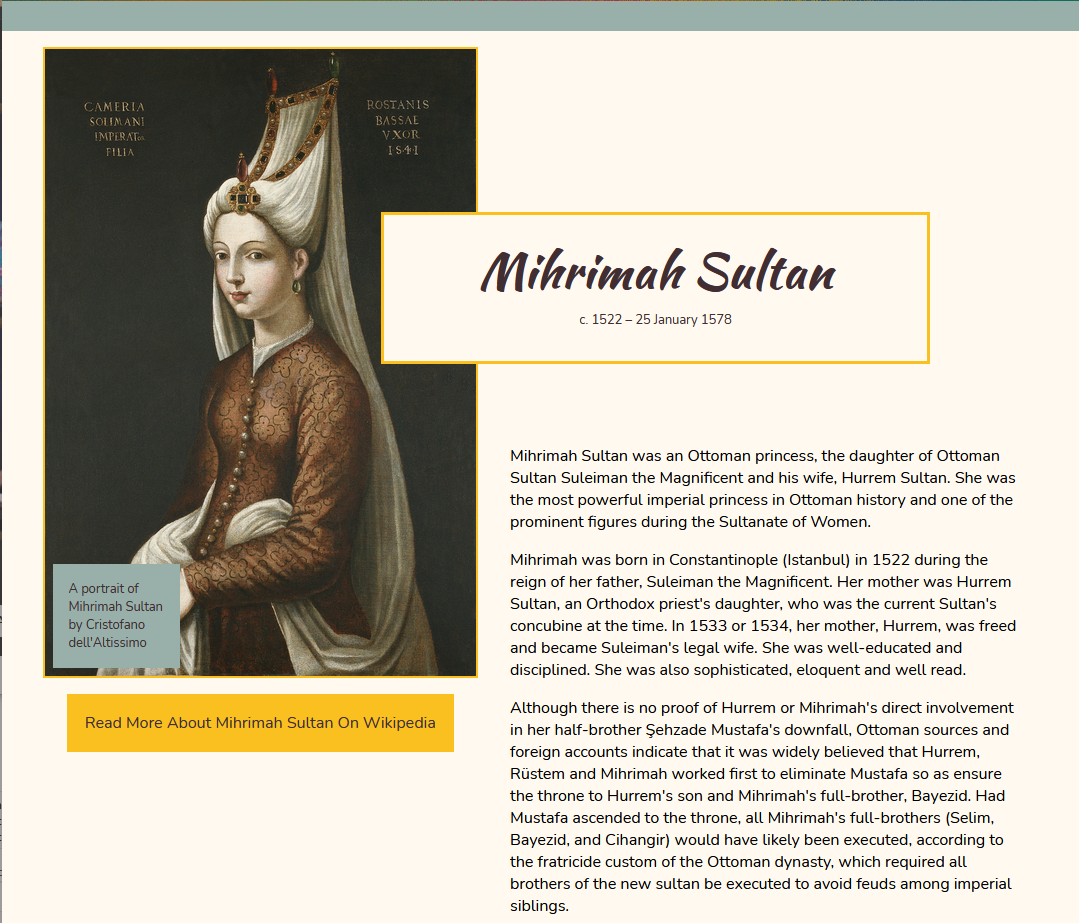
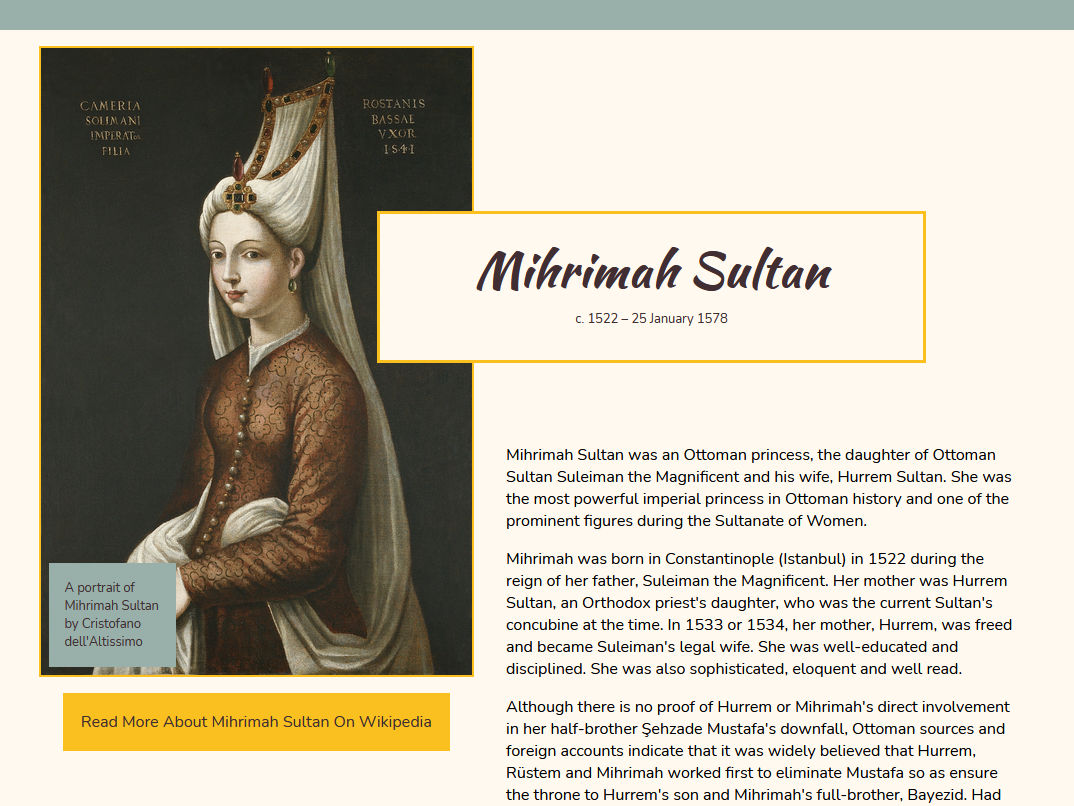
styles and content for portfolio

diff --git a/index.html b/index.html
@@ -9,6 +9,11 @@
 
     <link rel="stylesheet" href="styles.css" type="text/css">
     <link rel="stylesheet" media="screen and (min-width:700px)" href="large-styles.css">
+
+    <link rel="preconnect" href="https://fonts.gstatic.com">
+    <link href="https://fonts.googleapis.com/css2?family=Lato:ital,wght@0,300;0,400;0,700;0,900;1,300;1,400;1,700;1,900&display=swap" rel="stylesheet">
+
+    <link rel="stylesheet" href="https://cdnjs.cloudflare.com/ajax/libs/font-awesome/4.7.0/css/font-awesome.min.css">
     <!--<script defer src="https://cdn.freecodecamp.org/testable-projects-fcc/v1/bundle.js"></script>-->
 </head>
 
@@ -22,8 +27,9 @@
         <nav class="collapsible-menu">
             <ul>
                 <li><a href="#projects">Projects</a></li>
-                <li><a href="https://github.com/keircatenation" id="profile-link" target="_blank">GitHub</a></li>
+                <li><a href="#about">About</a></li>
                 <li><a href="https://keircatenation.github.io/MCC-Web-Development-2021/resume-project/resume.html" target="_blank">Resume</a></li>
+                <li><a href="https://github.com/keircatenation" id="profile-link" target="_blank">GitHub</a></li>
             </ul>
         </nav>
     </header>
@@ -38,44 +44,74 @@
                 <p>I am a designer, front-end web developer, and graphic artist with over 7 years’ experience in print, web, and mobile app design. I love creating open communication through well-thought-out design, illustration, and code.</p>
             </div>
         </section>
+
         <section id="projects">
             <h2>Projects</h2>
             <article class="project-tile">
-                <img src="assets/tribute-page.png" alt="DESCRIBE IT">
+                <img src="assets/tribute-page.png" alt="screenshot of the tribute page">
                 <div class="project-text">
                     <h3>Tribute Page</h3>
                     <a href="https://keircatenation.github.io/MCC-Web-Development-2021/tribute-page/tribute-page.html" target="_blank">View Project</a>
-                    <p>A tribute page created for the FreeCodeCamp responsive web design certification.</p>
+                    <p>A responsive tribute page created with CSS Grid for the FreeCodeCamp responsive web design certification.</p>
                 </div>
             </article>
             <article class="project-tile">
-                <img src="assets/tribute-page.png" alt="DESCRIBE IT">
+                <img src="assets/pattern-library.png" alt="screenshot of the pattern library">
                 <div class="project-text">
-                    <h3>Tribute Page</h3>
-                    <a href="https://keircatenation.github.io/MCC-Web-Development-2021/tribute-page/tribute-page.html" target="_blank">View Project</a>
-                    <p>A tribute page created for the FreeCodeCamp responsive web design certification.</p>
+                    <h3>Pattern Library</h3>
+                    <a href="https://keircatenation.github.io/MCC-Web-Development-2021/pattern-library/pattern-library.html" target="_blank">View Project</a>
+                    <p>A pattern library created according to the FreeCodeCamp Technical Documentation Page secifications.</p>
                 </div>
             </article>
             <article class="project-tile">
+                <img src="assets/survey-form.png" alt="screenshot of the survey form">
+                <div class="project-text">
+                    <h3>Survey Form</h3>
+                    <a href="https://keircatenation.github.io/MCC-Web-Development-2021/survey-form/survey-form.html" target="_blank">View Project</a>
+                    <p>A survey form created for the FreeCodeCamp responsive web design certification.</p>
+                </div>
+            </article>
+            <!-- <article class="project-tile">
                 <img src="assets/tribute-page.png" alt="DESCRIBE IT">
                 <div class="project-text">
                     <h3>Tribute Page</h3>
                     <a href="https://keircatenation.github.io/MCC-Web-Development-2021/tribute-page/tribute-page.html" target="_blank">View Project</a>
                     <p>A tribute page created for the FreeCodeCamp responsive web design certification.</p>
                 </div>
-            </article>
-            <article class="project-tile">
-                <img src="assets/tribute-page.png" alt="DESCRIBE IT">
-                <div class="project-text">
-                    <h3>Tribute Page</h3>
-                    <a href="https://keircatenation.github.io/MCC-Web-Development-2021/tribute-page/tribute-page.html" target="_blank">View Project</a>
-                    <p>A tribute page created for the FreeCodeCamp responsive web design certification.</p>
-                </div>
-            </article>
+            </article> -->
+        </section>
+
+        <section id="about">
+            <h2>about</h2>
+            <div class="about-text">
+                <p>Keiran Pillman is a designer, illustrator, and researcher living in Rochester, NY. They have a BFA in New Media Design from the Rochester Institute of Technology (2015), and a MFA in Art History from the University of Massachusetts Amherst (2017). They have worked as a freelance designer and illustrator for seven years, doing projects for a variety of clients.</p>
+                <p>In their spare time, Keiran enjoys running, hiking, writing both fiction and non-fiction, and serving as a loyal minion for their cat.</p>
+            </div>
+            <img class="avatar" src="assets/4X0A9222.jpg" alt="avatar image of Keiran Pillman">
+            <form id="contact-form" action="https://mailthis.to/keircatenation" method="POST">
+                <fieldset>
+                    <legend>Contact Me!</legend>
+                    <label for="contactName"><input type="text" name="name" id="contactName" placeholder="Your Name" required></label>
+                    <label for="email"><input type="email" name="email" id="email" placeholder="Your Email" required></label>
+                    <label for="message"><textarea name="message" id="message" placeholder="Your Message" required></textarea></label>
+
+                    <input type="hidden" name="_subject" value="Contact form submitted">
+                    <input type="hidden" name="_honeypot" value="">
+                    <input type="hidden" name="_confirmation" value="">
+
+                    <input type="submit" value="Send">
+                </fieldset>
+            </form>
+            <div class="media-links">
+                <a href="" target="_blank"><i class="fa fa-linkedin fa-2x"></i></a>
+                <a href="" target="_blank"><i class="fa fa fa-vimeo fa-2x"></i></a>
+                <a href="" target="_blank"><i class="fa fa-instagram fa-2x"></i></a>
+                <a href="" target="_blank"><i class="fa fa-behance fa-2x"></i></a>
+            </div>
         </section>
     </main>
     <footer>
-        copyright bitches
+        © 2021 Keiran Pillman
     </footer>
 
     <script>

diff --git a/styles.css b/styles.css
@@ -1,16 +1,18 @@
-@import url("https://fonts.googleapis.com/css2?family=Lato:ital,wght@0,300;0,400;0,700;0,900;1,300;1,400;1,700;1,900&display=swap");
 :root{
     --primary: rgb(153, 47, 96);
     --secondary:rgb(254, 239, 143);
     --dark-primary:rgb(112, 24, 53);
     --dark-secondary:rgb(233, 147, 19);
 }
+*{
+    box-sizing: border-box;
+}
 body{
     box-sizing: border-box;
     margin:0;
     padding:0;
     font-size: 100%;
-    font-family:'Lato', sans-serif;
+    font-family:"Lato", sans-serif;
 }
 
 
@@ -88,6 +90,8 @@ section#welcome-section{
     text-align: center;
     display:flex;
     align-items: center;
+    margin:0;
+    max-width: 100%;
 }
 #welcome-section #welcome-text{
     background:rgba(153, 47, 96, .9);
@@ -112,28 +116,40 @@ section#welcome-section p{
     line-height: 1.5rem;
 }
 
-/*the projects section*/
 
-section#projects{
-    max-width: 1020px;
-    margin:0 auto;
+/*section detailing*/
+
+section{
+    margin:2.75rem 1rem 0;
     display:grid;
     grid-gap:1rem;
-    padding:.75rem;
+    padding: 0;
+    border-top:1px solid var(--primary);
 }
 section h2{
-    margin:2rem 0 .5rem;
+    margin:-1rem 0 .5rem;
     color: var(--primary);
+    justify-self:center;
+    background: white;
+    padding:0 1rem;
+    text-transform:capitalize;
 }
-.project-tile{
-    border:2px solid var(--primary);
-    border-radius: .5rem;
-    overflow: hidden;
-    box-shadow: 0 0 2px 1px var(--primary-dark);
+section p{
+    margin:0 0 .5rem;
 }
-.project-tile img{
+section img{
     object-fit:cover;
     max-width: 100%;
+}
+
+/*the projects section*/
+
+.project-tile{
+    border:1px solid var(--primary);
+    border-radius: .5rem;
+    overflow: hidden;
+}
+.project-tile > img{
     border-bottom:1px solid var(--primary);
 }
 .project-text{
@@ -158,6 +174,7 @@ section h2{
     justify-self: end;
     text-transform: uppercase;
     border:1px solid var(--primary);
+    border-radius: .25rem;
 }
 .project-text a:hover{
     background-color:var(--secondary);
@@ -166,4 +183,93 @@ section h2{
 .project-text p{
     grid-area:descrip;
     margin:0;
+}
+
+
+/*about section styles*/
+
+#about{
+    grid-template-areas: "title" "text" "form" "icons";
+}
+#about h2{
+    grid-area:title;
+}
+.about-text{
+    grid-area:text;
+    line-height: 1.25rem;
+}
+#about form{
+    grid-area:form;
+}
+fieldset{
+    display: flex;
+    flex-direction: column;
+    border-radius: .5rem;
+    border:1px solid var(--primary);
+}
+legend{
+    color:var(--primary);
+    padding:0 .5rem;
+}
+input[type="text"], input[type="email"], textarea{
+    width:100%;
+    padding:.5rem;
+    border-radius: .25rem;
+    border:1px solid var(--primary);
+    margin-bottom: .5rem;
+    font-family: "Lato", sans-serif;
+    font-size: .9rem;
+}
+textarea{
+    height:5rem;
+}
+input[type="submit"]{
+    width:5rem;
+    text-align: center;
+    align-self: center;
+    padding:.5rem 0;
+    border-radius: .25rem;
+    border:1px solid var(--primary);
+    cursor: pointer;
+    font-family: "Lato", sans-serif;
+    text-transform: uppercase;
+    background-color: var(--primary);
+    color:var(--secondary);
+}
+input[type="submit"]:hover{
+    background-color:var(--secondary);
+    color:var(--primary);
+}
+.media-links{
+    display:flex;
+    justify-content: space-around;
+    align-content: center;
+    grid-area:icons;
+    align-self: center;
+}
+.media-links a{
+    color:var(--secondary);
+    background-color: var(--primary);
+    padding:.5rem 0;
+    text-align: center;
+    border-radius: .5rem;
+    width:3rem;
+    border:1px solid var(--primary);
+}
+.media-links a:hover{
+    color:var(--primary);
+    background: var(--secondary);
+}
+@media screen and (max-width:699px){
+    .avatar{
+        display:none;
+    }
+}
+
+footer{
+    background: var(--primary);
+    color:white;
+    padding:.5rem;
+    font-size: .8rem;
+    margin-top:1rem;
 }

diff --git a/large-styles.css b/large-styles.css
@@ -30,9 +30,61 @@ section#welcome-section h1{
     font-size: 1.5rem;
 }
 
+
+section{
+    max-width:1300px;
+}
+
+@media screen and (min-width:1333px){
+    section{
+        margin-right:auto;
+        margin-left:auto;
+    }
+}
+
 section#projects{
     grid-template-columns: 1fr 1fr;
 }
 section#projects h2{
     grid-column: span 2;
+}
+@media screen and (min-width:1330px) {
+    section#projects{
+        grid-template-columns: 1fr 1fr 1fr;
+    }
+    section#projects h2{
+        grid-column: span 3;
+    }
+}
+
+
+/*about section*/
+
+#about{
+    grid-template-areas:"title title"
+                        "image text"
+                        "image icons"
+                        "form form";
+    /* grid-template-rows:auto 1fr .25fr auto; */
+}
+#about img{
+    grid-area:image;
+}
+.about-text{
+    align-self: end;
+}
+.media-links{
+    align-self: start;
+}
+
+@media screen and (min-width:1200px){
+    #about{
+        grid-template-areas: "title title"
+                             "image text"
+                             "image form"
+                             "image icons";
+    }
+    .about-text, .media-links, form{
+        align-self: center;
+    }
 }
